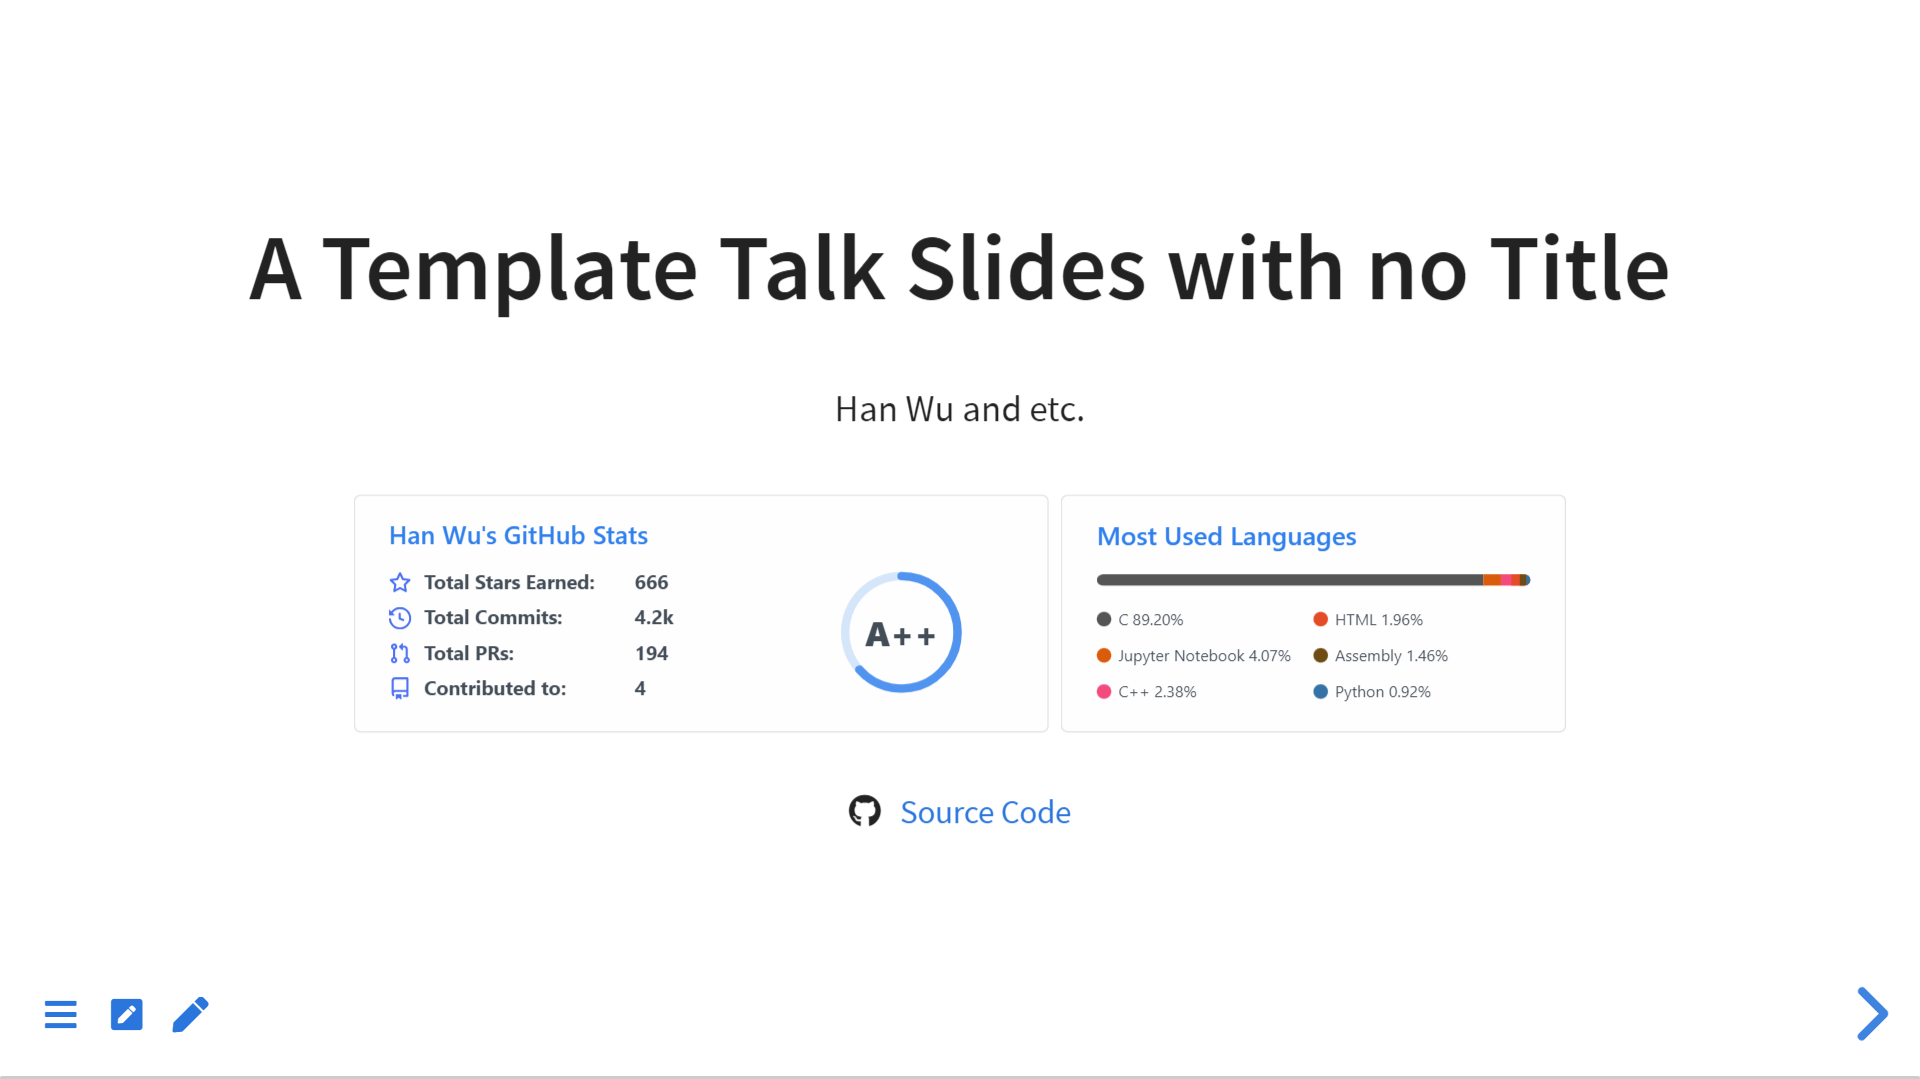
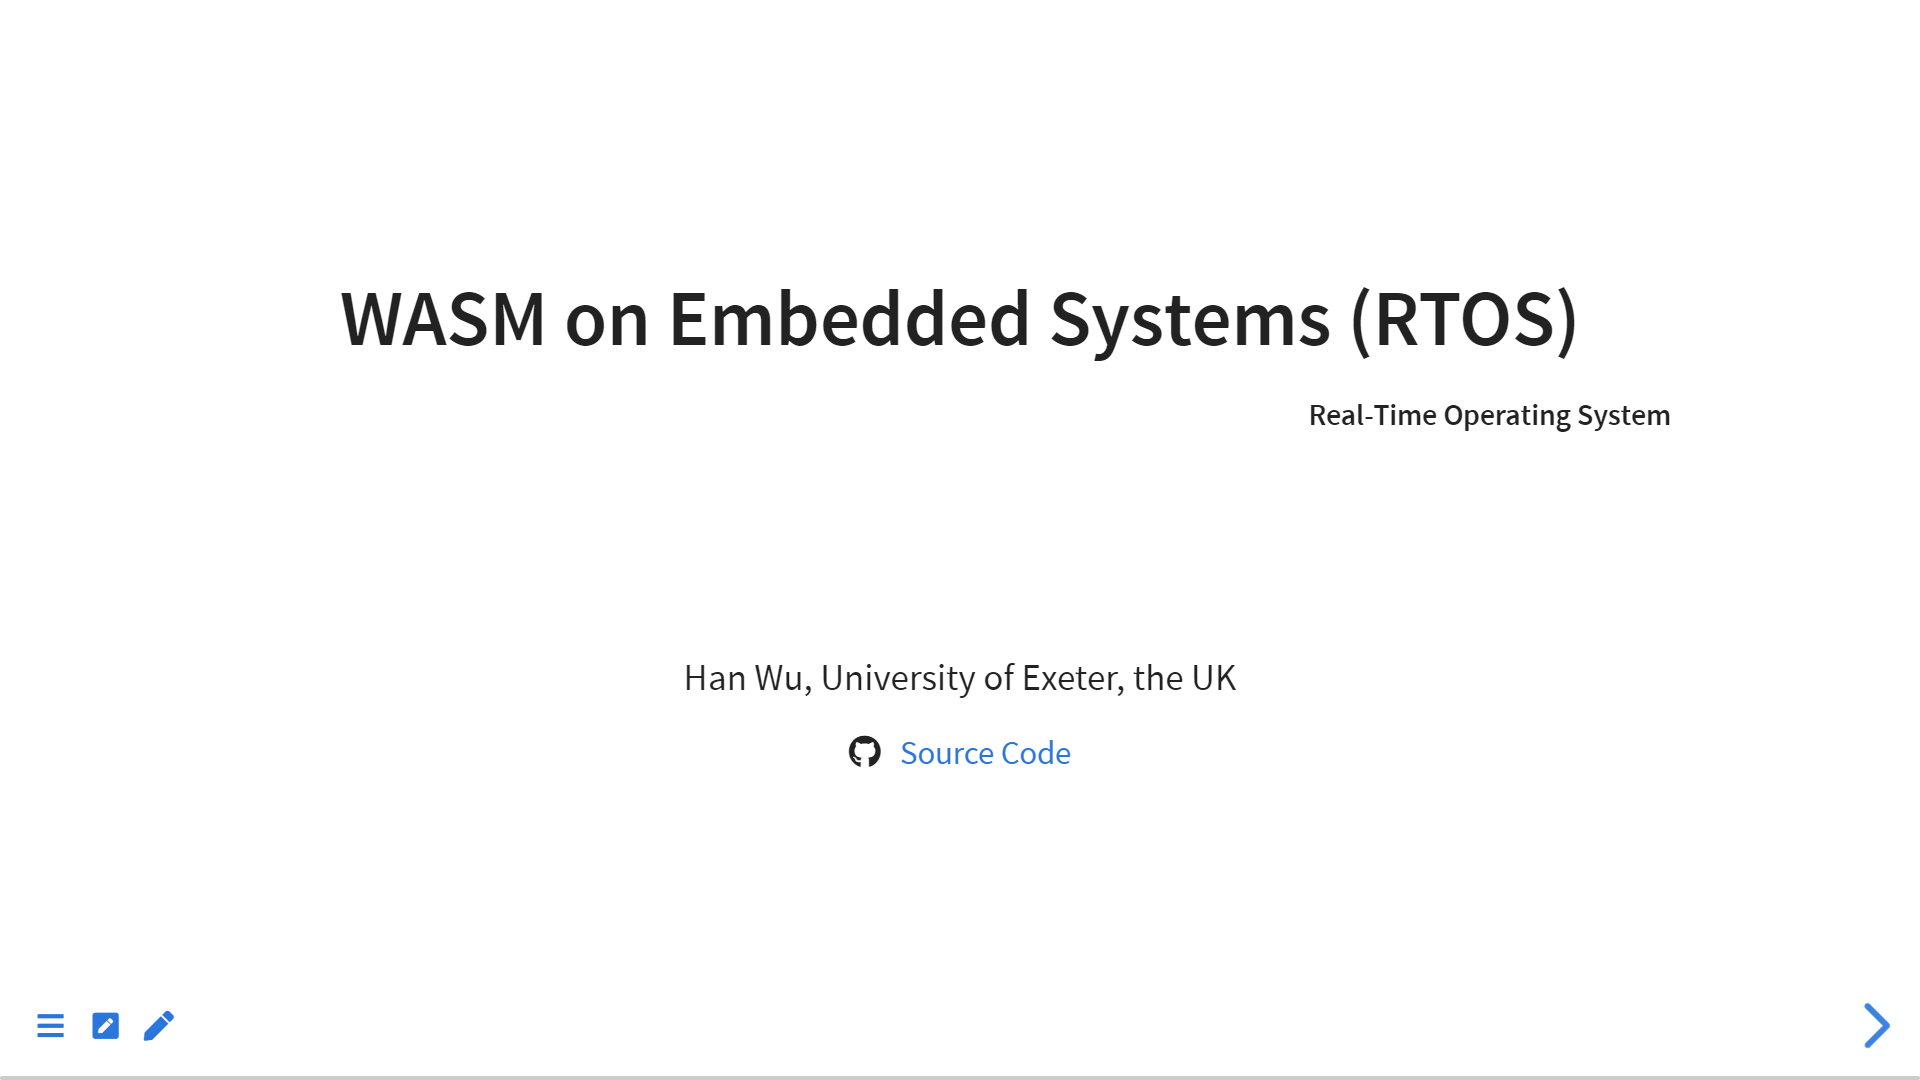
Update intro image

diff --git a/README.md b/README.md
@@ -1,1 +1,3 @@
 ![](intro.png)
+
+![](demo.png)
